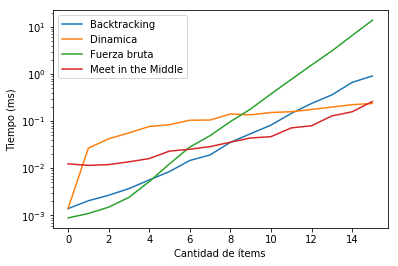
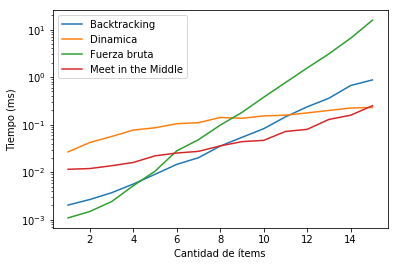
Agrega gráfico que empieza desde 1

diff --git a/informe/informe.tex b/informe/informe.tex
@@ -316,8 +316,8 @@ Finalmente, el algoritmo de Dinámica basa su complejidad no sólo en la cantida
 Comenzaremos con algunos casos de prueba que parezcan apropiados para corroborar lo que dijimos.\par
 \includegraphics{capacidad100.png}
 
-El gráfico muestra el tiempo tardado en milisegundos por cada algoritmo en una escala logarítmica. Se probó cada uno con 100 combinaciones de ítems para cada cantidad de 0 a 15, con una capacidad de la mochila de 100. Los tamaños y beneficios de los ítems se generaron con una variable aleatoria de distribución uniforme de 0 a 10 inclusive.\par
-Como podemos ver, el algoritmo de Fuerza Bruta sigue bastante fielmente un crecimiento exponencial del tiempo tardado según crece la cantidad de ítems. El algoritmo de Meet in the Middle parece crecer más lentamente que los demás, hasta que se llega a los 15 ítems, en el que sobrepasa en tiempo al de dinámica, aunque este único gráfico no nos aporta suficiente información. El de Backtracking parece sostener un crecimiento exponencial constante, como el de Fuerza Bruta, y el de Dinámica se estanca en comparación a los otros después del primer salto entre 0 ítems y 1 ítem. Podemos suponer que esto se debe a que la complejidad no crece tanto con la cantidad de ítems como los otros, y que con 0 ítems la tabla que se crea es de tamaño 0, mientras que la tabla que se crea con 1 ítem es de tamaño igual a la capacidad.\par
+El gráfico muestra el tiempo tardado en milisegundos por cada algoritmo en una escala logarítmica. Se probó cada uno con 100 combinaciones de ítems para cada cantidad de 1 a 15, con una capacidad de la mochila de 100. Los tamaños y beneficios de los ítems se generaron con una variable aleatoria de distribución uniforme de 0 a 10 inclusive.\par
+Como podemos ver, el algoritmo de Fuerza Bruta sigue bastante fielmente un crecimiento exponencial del tiempo tardado según crece la cantidad de ítems. El algoritmo de Meet in the Middle parece crecer más lentamente que los demás, hasta que se llega a los 15 ítems, en el que sobrepasa en tiempo al de dinámica, aunque este único gráfico no nos aporta suficiente información. El de Backtracking parece sostener un crecimiento exponencial constante, como el de Fuerza Bruta, y el de Dinámica se estanca en comparación a los otros. Podemos suponer que esto se debe a que la complejidad no crece tanto con la cantidad de ítems como los otros.\par
 
 \includegraphics{capacidad100sinfuerzahasta40.png}
 
